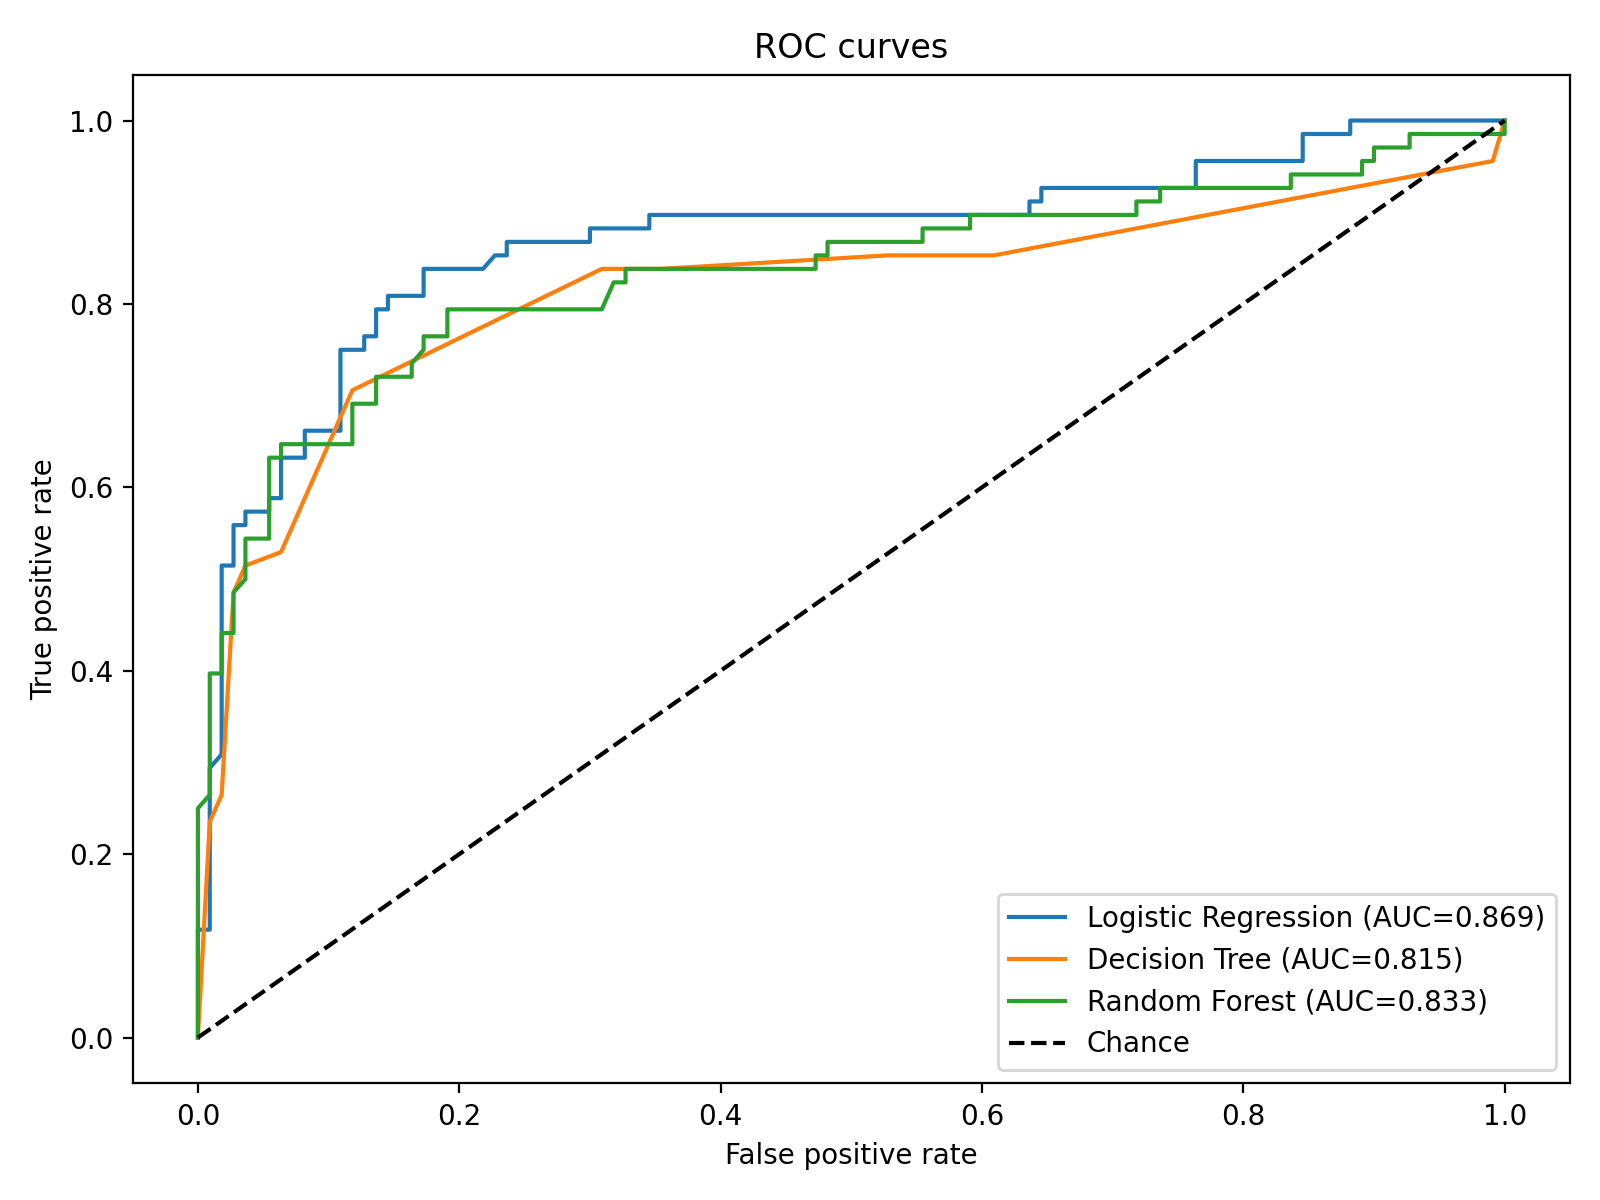
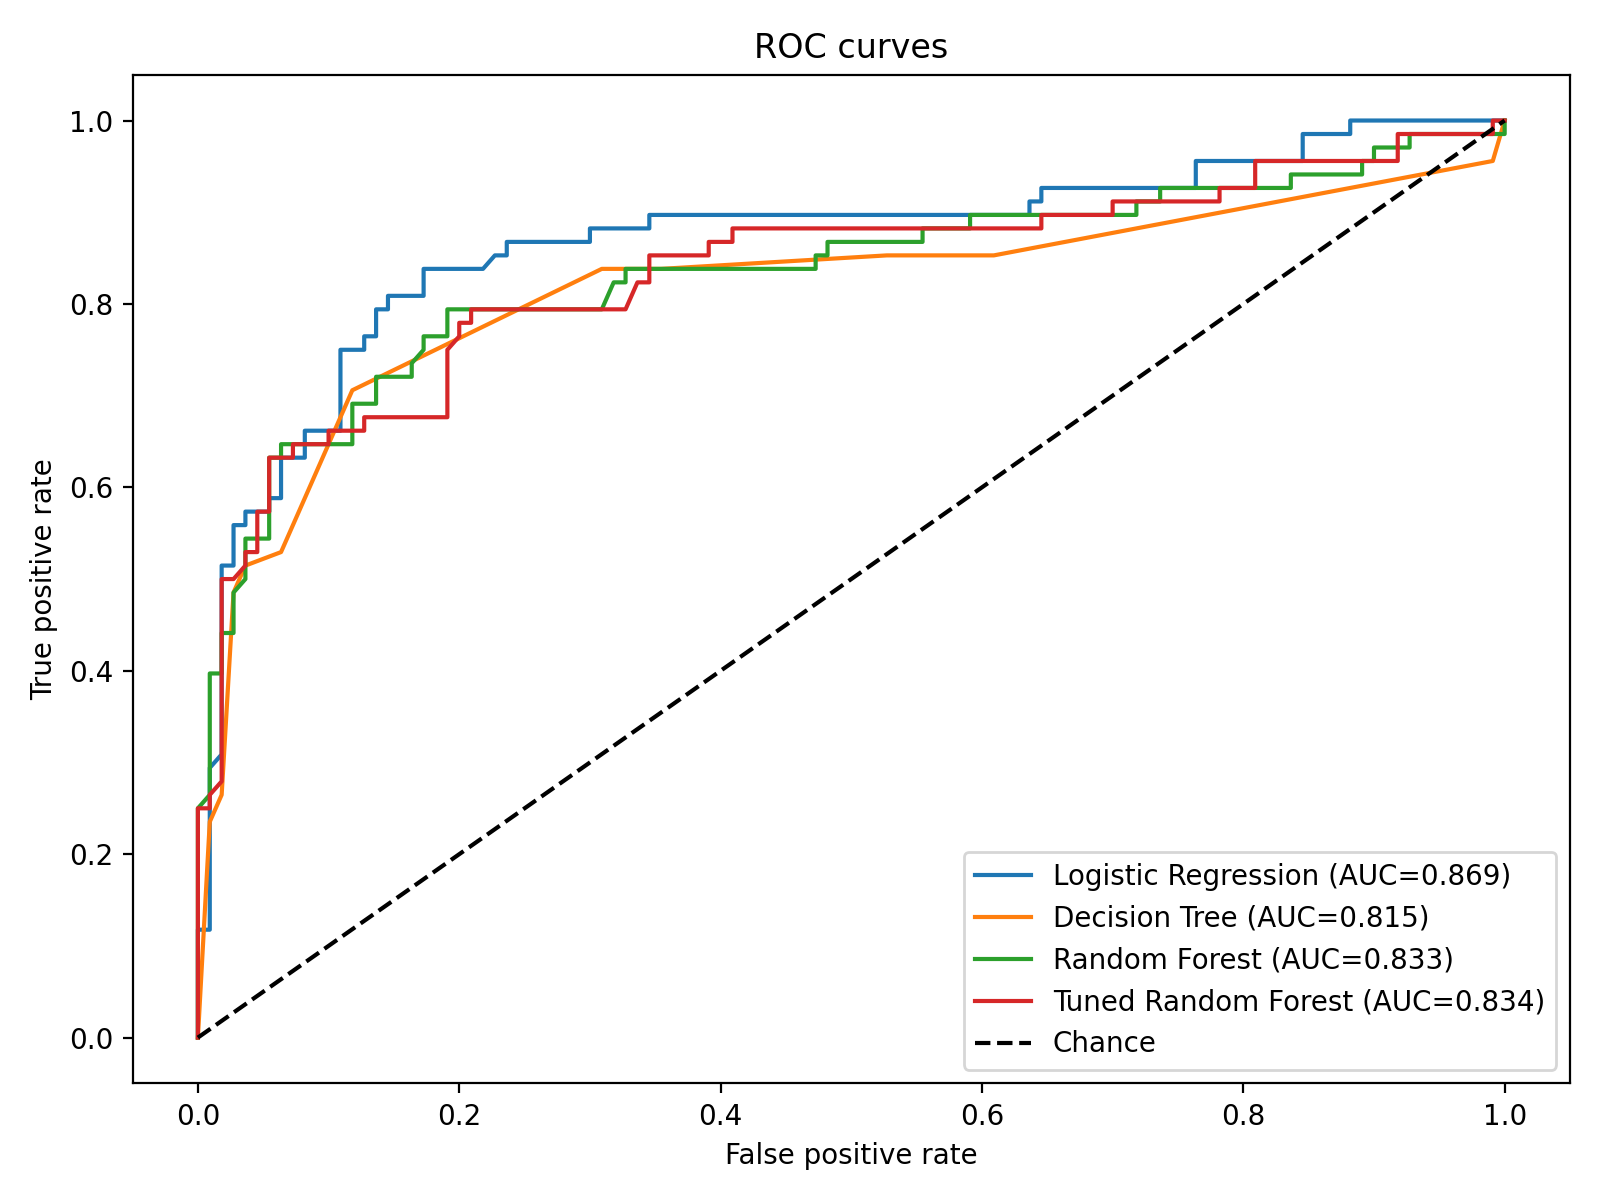
Compare tuned forest before saving best pipeline

diff --git a/analytics/02_modeling.py b/analytics/02_modeling.py
@@ -156,48 +156,6 @@ results_df = pd.DataFrame(results)
 print("\nClassification comparison table:")
 print(results_df[["model", "accuracy", "precision", "recall", "f1", "roc_auc"]].to_string(index=False))
 
-best_name = results_df.sort_values("f1", ascending=False).iloc[0]["model"]
-best_model = pipelines[best_name]
-joblib.dump(best_model, MODEL_PATH)
-print(f"\nSaved best model pipeline to {MODEL_PATH} using {best_name}.")
-
-# Save a picture of the decision tree.
-tree_pipeline = pipelines["decision_tree"]
-feature_names = tree_pipeline.named_steps["preprocess"].get_feature_names_out()
-plt.figure(figsize=(24, 12))
-plot_tree(
-    tree_pipeline.named_steps["model"],
-    feature_names=feature_names,
-    class_names=["Died", "Survived"],
-    filled=True,
-    rounded=True,
-)
-plt.tight_layout()
-plt.savefig(BASE_DIR / "decision_tree.png", dpi=200)
-plt.close()
-
-fig, axes = plt.subplots(1, 3, figsize=(15, 4))
-for axis, (name, matrix) in zip(axes, confusion_matrices.items()):
-    sns.heatmap(matrix, annot=True, fmt="d", cmap="Blues", cbar=False, ax=axis)
-    axis.set_title(name.replace("_", " ").title())
-    axis.set_xlabel("Predicted")
-    axis.set_ylabel("Actual")
-plt.tight_layout()
-plt.savefig(BASE_DIR / "confusion_matrices.png", dpi=200)
-plt.close()
-
-plt.figure(figsize=(8, 6))
-for name, fpr, tpr, auc_value in roc_data:
-    plt.plot(fpr, tpr, label=f"{name.replace('_', ' ').title()} (AUC={auc_value:.3f})")
-plt.plot([0, 1], [0, 1], "k--", label="Chance")
-plt.xlabel("False positive rate")
-plt.ylabel("True positive rate")
-plt.title("ROC curves")
-plt.legend()
-plt.tight_layout()
-plt.savefig(BASE_DIR / "roc_curves.png", dpi=200)
-plt.close()
-
 # Compare a plain, weighted, and oversampled classifier.
 class_balance = y_train.value_counts(normalize=True)
 print("\nClass balance in training data:")
@@ -274,6 +232,72 @@ rf_grid.fit(X_train, y_train)
 print("\nBest RandomForest parameters:")
 print(rf_grid.best_params_)
 print("Best RandomForest OOB score:", rf_grid.best_estimator_.named_steps["model"].oob_score_)
+
+# Evaluate the tuned forest on the held-out test set before choosing the saved model.
+tuned_name = "tuned_random_forest"
+tuned_model = rf_grid.best_estimator_
+tuned_pred = tuned_model.predict(X_test)
+tuned_prob = tuned_model.predict_proba(X_test)[:, 1]
+tuned_auc = roc_auc_score(y_test, tuned_prob)
+results.append(
+    {
+        "model": tuned_name,
+        "accuracy": accuracy_score(y_test, tuned_pred),
+        "precision": precision_score(y_test, tuned_pred, zero_division=0),
+        "recall": recall_score(y_test, tuned_pred, zero_division=0),
+        "f1": f1_score(y_test, tuned_pred, zero_division=0),
+        "roc_auc": tuned_auc,
+        "confusion_matrix": confusion_matrix(y_test, tuned_pred),
+    }
+)
+confusion_matrices[tuned_name] = results[-1]["confusion_matrix"]
+tuned_fpr, tuned_tpr, _ = roc_curve(y_test, tuned_prob)
+roc_data.append((tuned_name, tuned_fpr, tuned_tpr, tuned_auc))
+results_df = pd.DataFrame(results)
+print("\nClassification comparison including tuned RandomForest:")
+print(results_df[["model", "accuracy", "precision", "recall", "f1", "roc_auc"]].to_string(index=False))
+
+best_name = results_df.sort_values("f1", ascending=False).iloc[0]["model"]
+best_model = tuned_model if best_name == tuned_name else pipelines[best_name]
+joblib.dump(best_model, MODEL_PATH)
+print(f"\nSaved best model pipeline to {MODEL_PATH} using {best_name}.")
+
+# Save the decision tree and evaluation plots after all four classifiers are evaluated.
+tree_pipeline = pipelines["decision_tree"]
+feature_names = tree_pipeline.named_steps["preprocess"].get_feature_names_out()
+plt.figure(figsize=(24, 12))
+plot_tree(
+    tree_pipeline.named_steps["model"],
+    feature_names=feature_names,
+    class_names=["Died", "Survived"],
+    filled=True,
+    rounded=True,
+)
+plt.tight_layout()
+plt.savefig(BASE_DIR / "decision_tree.png", dpi=200)
+plt.close()
+
+fig, axes = plt.subplots(1, 4, figsize=(20, 4))
+for axis, (name, matrix) in zip(axes, confusion_matrices.items()):
+    sns.heatmap(matrix, annot=True, fmt="d", cmap="Blues", cbar=False, ax=axis)
+    axis.set_title(name.replace("_", " ").title())
+    axis.set_xlabel("Predicted")
+    axis.set_ylabel("Actual")
+plt.tight_layout()
+plt.savefig(BASE_DIR / "confusion_matrices.png", dpi=200)
+plt.close()
+
+plt.figure(figsize=(8, 6))
+for name, fpr, tpr, auc_value in roc_data:
+    plt.plot(fpr, tpr, label=f"{name.replace('_', ' ').title()} (AUC={auc_value:.3f})")
+plt.plot([0, 1], [0, 1], "k--", label="Chance")
+plt.xlabel("False positive rate")
+plt.ylabel("True positive rate")
+plt.title("ROC curves")
+plt.legend()
+plt.tight_layout()
+plt.savefig(BASE_DIR / "roc_curves.png", dpi=200)
+plt.close()
 
 # Predict fare as a separate regression task.
 regression_df = df.drop(columns=["survived"], errors="ignore").copy()

diff --git a/analytics/README.md b/analytics/README.md
@@ -60,13 +60,14 @@ All three classifiers use the same stratified split. The comparison table is sav
 | Logistic Regression | 0.815 | 0.797 | 0.691 | 0.740 | 0.869 |
 | Decision Tree | 0.815 | 0.787 | 0.706 | 0.744 | 0.815 |
 | Random Forest | 0.792 | 0.772 | 0.647 | 0.704 | 0.833 |
+| Tuned Random Forest | 0.809 | 0.815 | 0.647 | 0.721 | 0.834 |
 
 The confusion matrices are saved in `confusion_matrices.png`, and the three ROC curves are saved in `roc_curves.png`. The Decision Tree visualization is saved in `decision_tree.png` with transformed feature names and class names.
 
 For imbalance handling, the baseline F1 was 0.740, class weighting produced 0.779, and SMOTE produced 0.758. Class weighting worked best on this split because it improved recall without reducing precision as much as SMOTE. SMOTE is inside the imbalanced-learn pipeline after preprocessing, so it is fitted only on the training fold.
 
-Random Forest tuning selected `n_estimators=100`, `max_depth=6`, `max_features='sqrt'`, and `min_samples_leaf=2`, with an OOB score of about 0.812. The bounded depth and leaf-size settings reduce the chance of fitting noise in this small dataset.
+Random Forest tuning selected `n_estimators=100`, `max_depth=6`, `max_features='sqrt'`, and `min_samples_leaf=2`, with an OOB score of about 0.812. The tuned forest is evaluated on the held-out test set and included in `model_metrics.csv` and `model_comparison.csv` before the best pipeline is selected. Its test F1 was 0.721, so the Decision Tree remained the saved model with the highest F1 at 0.744. The bounded depth and leaf-size settings reduce the chance of fitting noise in this small dataset.
 
 The fare regression produced MAE 18.394, RMSE 41.358, R2 0.359, and adjusted R2 0.268. The residual plot is saved as `residual_plot.png`; its spread is reasonably random around zero, so there is no strong visible heteroscedasticity pattern, although the model does not explain all fare variation.
 
-The decision tree is the selected classifier by holdout F1 at 0.744, narrowly ahead of Logistic Regression at 0.740. Logistic Regression has the best AUC at 0.869, so it ranks the classes better across thresholds. I would deploy the Decision Tree if the priority is the chosen F1 score and straightforward explanation, while keeping Logistic Regression as a strong alternative for probability ranking. Neither model should be treated as perfect; the realistic scores and the leakage removal make this comparison more trustworthy.
+The decision tree is the selected classifier by holdout F1 at 0.744, ahead of Logistic Regression at 0.740 and the tuned Random Forest at 0.721. Logistic Regression has the best AUC at 0.869, so it ranks the classes better across thresholds. I would deploy the Decision Tree if the priority is the chosen F1 score and straightforward explanation, while keeping Logistic Regression as a strong alternative for probability ranking. Neither model should be treated as perfect; the realistic scores and the leakage removal make this comparison more trustworthy.
